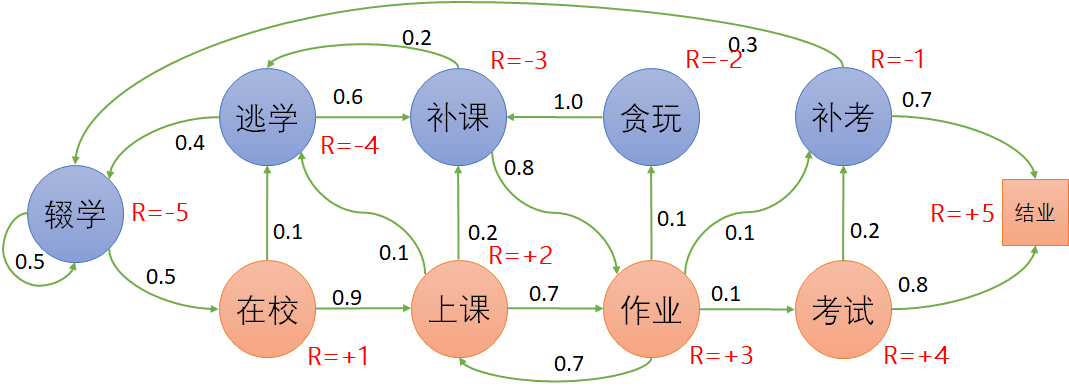
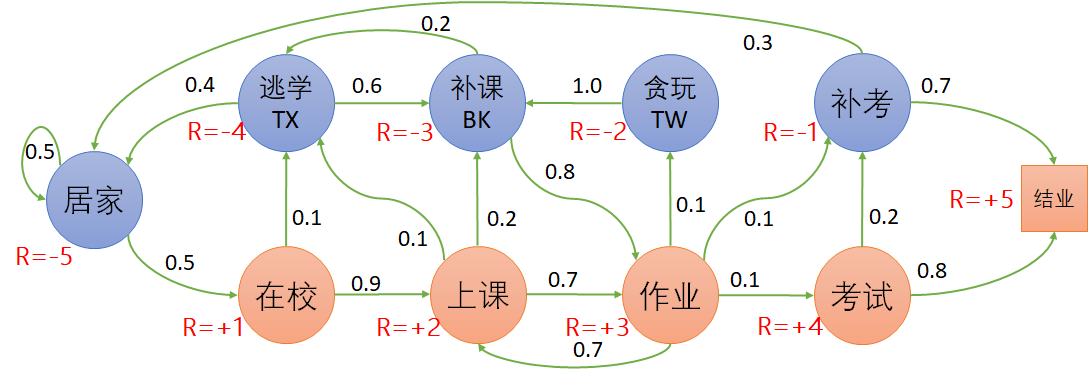
update

diff --git a/基础教程/A7-强化学习/50-学生学习问题 - 从普通过程到奖励过程/3-马尔可夫奖励过程.md b/基础教程/A7-强化学习/50-学生学习问题 - 从普通过程到奖励过程/3-马尔可夫奖励过程.md
@@ -3,19 +3,21 @@
 
 ### 5.3.1 马尔可夫奖励过程（Markov Reward Process）
 
-一个完整的奖励过程如图 3 所示。就是在状态转移图中，给每个状态都定义一个奖励值，当到达这个状态时，强化学习过程就会获得相应的奖励值，使得整个过程向着获得最大收益的方向优化和运行。
+有了回报 G 的定义，自然就会把所有的历史状态和对应的奖励串联起来，形成一个过程，叫做马尔可夫奖励过程 MRP（Markov Reward Process）。
+
+一个完整的奖励过程如图 5.3.1 所示。就是在状态转移图中，给每个状态都定义一个奖励值，当到达这个状态时，强化学习过程就会获得相应的奖励值，使得整个过程向着获得最大收益的方向优化和运行。
 
 <center>
-<img src="./img/Reward-2.png">
+<img src="./img/MRP.png">
 
-图 3 马尔科夫奖励过程
+图 5.3.1 马尔科夫奖励过程
 </center>
 
-很明显，这是用**面向结果**的方式来定义奖励。如果是**面向过程**的话，图 3 的 $S_1$ 状态应该没有奖励值，因为看上去它是**起始**状态，没有任何**过程**可以定义它的奖励。
+很明显，这是用**面向结果**的方式来定义奖励。
 
-在图 3 中：
-- 到达$S_1$状态时，会得到$R_2$的奖励；
-- 到达$S_2$状态时，会得到$R_3$的奖励；
+在图 5.3.1 中：
+- 到达$S_1$状态时，会得到$R_1$的奖励；
+- 到达$S_2$状态时，会得到$R_2$的奖励；
 ......
 - 到达$S_t$状态时，会得到$R_{t+1}$的奖励；
 ......
@@ -23,57 +25,86 @@
 
 这些状态的下标值，只表示前后发生的顺序，即**时刻**，而与状态的序号无关。比如一个状态集中有 4 个状态 $[s_a,s_b,s_c,s_T]$，马尔可夫链的顺序有可能是 $s_a,s_b,s_a,s_c,s_T$，那么有：$S_1=s_a,\ S_2=s_b,\ S_3=s_a,\ S_4=s_c,\ S_5=s_T$。
 
-*注：在本书中使用大写的 $S$ 表示某个时刻的状态，如 $S_1,S_t$，分别表示时刻 1 和时刻 t 的状态。用小写的 $s$ 表示具体问题的状态，如 $s_S,s_N$，表示安全驾驶问题中的 **出发** 状态和 **正常行驶** 状态。那么 $S_3=s_N$* 的含义就是在时刻 t=3 时处于状态 $s_N$。
+在本书中使用大写的 $S$ 表示某个时刻的状态，如 $S_1,S_t$，分别表示时刻 1 和时刻 t 的状态。用小写的 $s$ 表示具体问题的状态实例。
 
-*注：在本书中使用这种定义方式：整个序列的序号是 $S_1,R_2,S_2,R_3,\cdots,S_t,R_{t+1},\cdots$ 的过程，即 $R$ 的序号是 $S$ 的序号+1。而在有些资料中，用这种定义方式：$S_1,R_1,S_2,R_2,\cdots,S_t,R_{t},\cdots$，需要读者事先注意。*
+如在图 5.1.2 中，$s_{SK}$，表示学生学习问题中的“上课”状态，那么 $S_3=s_{SK}$ 的含义就是在时刻 t=3 时处于状态 $s_{SK}$。
 
+在本书中使用这种定义方式：整个序列的序号是 $S_0,R_1,S_1,R_2,\cdots,S_t,R_{t+1},\cdots$ 的过程，即 $R$ 的序号是 $S$ 的序号+1。而在有些资料中，用这种定义方式：$S_0,R_0,S_1,R_1,\cdots,S_t,R_{t},\cdots$，需要读者事先注意。
 
-用一个文字公式来表示 MRP（Markov Reward Process，马尔可夫奖励过程）：
+如果用一个文字公式来表示 MRP（Markov Reward Process，马尔可夫奖励过程）：
 
 $$
-马尔可夫奖励过程 = 马尔可夫链 + 奖励函数
+\begin{aligned}
+马尔可夫奖励过程 &= 马尔可夫链 + 奖励函数
+\\
+MRP &= Markov Chain + Reward
+\end{aligned}
 $$
 
-根据上面学习的知识，再结合上面的状态转移图 1，我们给每个状态定义一个奖励，如图 5 所示。
+所以，得到一个马尔科夫奖励过程需要条件和过程是：
+1. 有模型图（含状态转移）；
+2. 有奖励（目前可以是面向结果的奖励，即，到达某个状态后可以得到相应的奖励值）；
+3. 有采样，这样才可以串联起**状态**和**奖励**，以便获得完整的 MRP：$S_0,R_1,S_1,R_2,\cdots$ 过程；
+4. 得到奖励后，把它们相加，就可以得到回报 $G$，而 $G$ 是后面要学习的所有算法的基础。
+
+与马尔可夫过程的二元组 $\langle S,P \rangle$ 相比，马尔可夫奖励过程是一个元组的数据序列：$\langle S,P,R \rangle$，分别表示状态 $S$、转移概率 $P$、奖励 $R$。但是 $P$ 只体现在采样过程中，而不存在于采样结果中。
+
+下面我们结合模型、状态、终止状态、奖励、采样、回报的定义，来经历一下马尔科夫奖励过程。为了方便起见，把图 5.2.1 拷贝过来随时查阅。
 
 <center>
-<img src="./img/Drive-2.png" width="600">
+<img src="./img/Student-Reward.png">
 
-图 5 安全驾驶问题的马尔可夫奖励过程
+由图 5.2.1 学生学习问题中对状态的奖励
 </center>
 
-显然，这里使用了图 2 中的第一种方式（**面向结果**）来定义奖励，举例来说，无论状态“发生事故”是通过什么路径到达的（可以通过“拨打手机”到达，也可以通过“路口闯灯”到达），都可以得到 -12 的奖励（实际上是惩罚）。
+在图 5.1.2 中，可以根据不同的学生在一个学期中的经历，获得不同的到达终点路径。我们以“居家- 在校 - 上课 - 补课 - 作业 - 考试 - 补考 - 结业。”为例，解释完整过程：
 
-奖励函数（值）的设计一般是人工设定的，是通过分析目标问题的实际科学意义或者人文意义来决定的。比如，在图 5 中，通过交通规则的学习，给出制定奖励的过程如下：
+0. $S_0=$ “居家（学龄前）”。虽然在图 5.2.1 中的“居家”状态旁边标有 $R=-5$ 的奖励值，但是根据定义，作为 $S_0$ 状态，它是没有奖励值的，只有从别的状态转移到“居家”状态时，$R=-5$ 才会生效。
+1. $S_1=$ “在校”。此时可以得到 $R_1=+1$ 的奖励，即 $R_1=+1$，但是这个 $R_1$ 在马尔可夫过程中要写在 $S_0,S_1$ 之间，而不是 $S_1$ 之后。
+2. $S_2=$ “上课”。此时可以得到 $R_2=+2$ 的奖励。
+3. $S_3=$ “补课”。此时可以得到 $R_3=-3$ 的奖励。
+4. $S_4=$ “作业”。此时可以得到 $R_4=+3$ 的奖励。
+5. $S_5=$ “考试”。此时可以得到 $R_5=+4$ 的奖励。
+6. $S_6=$ “补考”。此时可以得到 $R_6=-1$ 的奖励。
+7. $S_T=$ “结业”。一般我们把最后一个状态写做 $S_T$，此时可以得到 $R_T=+5$ 的奖励。
 
-1. 按交规，超速行驶扣 3 分，开车打电话扣 3 分，闯红灯扣 6 分。
-2. 发生事故扣 1 分。有的读者会有疑问：为什么出了事故只扣 1 分？因为在交规中，出了事故后，不会因为事故本身（比如有无人员伤亡，车俩的损失程度等）而扣分，而是分析出事故的原因，对原因扣分。所以，这里只是象征性地扣 1 分。至于后期要做经济赔偿等等，是属于附带的责任，而不是奖励或惩罚。
-3. 礼让行人在交规上不加分，但是在强化学习系统中可以加 1 分，以鼓励自动驾驶的智能体强化此状态，保证安全。
-4. 正常行驶是一个常见状态，得 0 分；
-5. 闹市减速、小区内减速，和礼让行人一样，都给 1 分奖励。
-6. 安全抵达给 5 分奖励。之所以给的奖励值很高，是要强化安全驾驶行为/状态，让智能体更倾向于安全驾驶的习惯。
-7. 出发和结束都是 0 分。
+所以，马尔科夫奖励过程为：
+$$
+MRP_1 = \langle 居家,+1,在校,+2,上课,-3,补课,+3,作业,+4,考试,-1,补考,+5,结业 \rangle
+$$
 
-根据状态转移可以得到一些完整的分幕采样，从而可以计算出每个采样的回报值，列在表 1 中。
+再举几个有可能的过程是：
 
-表 1 分幕采样和回报计算
+$$
+\begin{aligned}
+MRP_2 &= \langle 居家,+1,在校,+2,上课,+3,作业,+4,考试,+5,结业 \rangle
+\\
+MRP_3 &= \langle 居家,+1,在校,-4,逃学,-3,补课,-4,逃学,-3,补课,+3,作业+4,考试,-1,补考,+5,结业 \rangle
+\\
+MRP_4 &= \langle 居家,+1,在校,+2,上课,+3,作业,-4,贪玩,-3,补课,+3,作业,+4,考试,+5,结业\rangle
+\end{aligned}
+$$
 
-||分幕采样序列|回报值计算|
-|-|-|-|
-|1|S - N - L - G - E|$G_{S}=0+0+1+5+0=6$|
-|2|S - N - P - N - L - G - E|$G_{S}=0+0+1+0+1+5+0=7$|
-|3|S - N - R - C - E|$G_{S}=0+0-6-1+0=-7$|
-|4|S - X - R - N - R - C - E|$G_{S}=0-3-6+0-6-1+0=-16$|
+得到完整的采样序列后，就可以计算回报值，列在表 5.3.1 中。
 
-读者可能会产生怀疑：为什么表 1 中都是同样计算 $G_{S}$ 的回报值，但是有不同的结果？这是因为采样不同，路径不同，造成的回报值不同，这种情况是正常的。
+表 5.3.1 不同的 MRP 的回报值计算
 
-与马尔可夫过程的二元组 $<S,P>$ 相比，马尔可夫奖励过程是一个元组的数据序列：$<S,P,R>$，分别表示状态 $S$、转移概率 $P$、奖励 $R$。
+|MRP|回报值计算|
+|-|-|
+|$MPR_1$|$G_0=1+2-3+3+4-1+5=11$|
+|$MPR_2$|$G_0=1+2+3+4+5=15$|
+|$MPR_3$|$G_0=1-4-3-4-3+3+4-1+5=-2$|
+|$MPR_4$|$G_0=1+2+3-4-3+3+4+5=11$|
+
+读者可能会有疑问：为什么表 5.3.1 中都是以“在家”状态为起点 $S_0$，计算 $G_0$ 的回报值，但是有不同的结果？这是因为采样不同，路径不同，造成的回报值不同，这种情况是正常的。
+
+
 
 
 
 ### 5.3.2 折扣因子 $\gamma$
 
-如果把**回报**定义为**奖励**的简单相加的话，整个学习框架就会失去一些“灵动”，没有可以调节收益信号大小的“开关”，甚至带来如图 7 所示的灾难。
+如果把**回报**定义为**奖励**的简单相加的话，整个学习框架就会失去一些“灵动”，没有可以调节收益信号大小的“开关”，甚至带来如图 5.2.6 所示的无限循环怪圈。
 
 如何避免这个问题呢？
 
@@ -89,45 +120,39 @@ G_t &= R_{t+1}+\gamma R_{t+2}+\gamma^2 R_{t+3}+ \cdots +\gamma^{T-t-1} R_{T}
 \\
 &=R_{t+1}+ \gamma G_{t+1}, \qquad (0 \le \gamma \le 1)
 \end{aligned}
-\tag{2}
+\tag{5.3.1}
 $$
 
-式 2 有一个有趣的现象，可以递归地用下一个时刻的回报来定义当前时刻的回报，这一点在我们后面的算法研究上非常有帮助。
+式（5.3.1）有一个有趣的现象，可以递归地用下一个时刻的回报来定义当前时刻的回报，这一点在我们后面的算法研究上非常有帮助。
 
 引入折扣因子的原因如下：
 
 - 有些马尔可夫过程是带环的，需要避免这种无穷的奖励。当过程很长时，$\gamma^t$ 的值越来越小，那么后面的奖励乘以 $\gamma^t$ 的值就可以忽略不计了。
 - 因为模型不完备的原因，对未来的评估不一定是准确的。因为这种不确定性，所以对未来的预估增加一个折扣。
-- 对于某些行业问题，如金融领域，希望尽可能快地得到奖励，而不是在未来得到奖励。可以想象为通货膨胀的例子，现在是10块钱和十年后的10块钱，是会相差好几倍的。
-- 人们总是希望得到即时的奖励，比如一个孩子在成长过程中，对于任何行为随时给与奖励或者惩罚，可以给出强烈的学习信号，智能体也是如此。
+- 对于某些行业问题，如金融领域，希望尽可能快地得到奖励，而不是在未来得到奖励。可以想象为通货膨胀的例子，现在是 10 块钱和十年后的 10 块钱，是会相差好几倍的，所以把十年后的 10 块钱折扣为当前的 2 块钱比较合适。
+- 人们总是希望得到即时的奖励，比如一个孩子在成长过程中，对于任何行为随时给与奖励或者惩罚，可以给出强烈的学习信号。智能体也是如此，比如在下围棋时，如果每走一步都有奖励的话，训练会变得容易很多。
 - 当关注即时奖励时，可以设置系数 $\gamma=0$。
 - 当想要未来获得的奖励跟当前获得的奖励是一样的，可以设为 $\gamma=1$。
 
 折扣作为一种超参存在于强化学习系统中，不同的折扣值会带来智能体的不同的学习效果。
 
 
-表 2 带折扣的分幕采样和回报计算
+表 5.3.2 带折扣的回报计算
 
-||分幕采样序列|回报值计算（$\gamma=0.9$）|
-|-|-|-|
-|1|Start - N - L - G - End|$G_{S}=0+0.9*0+0.9^2*1+0.9^3*10+0.9^4*0=8.1$|
-|2|Start - N - P - N - L - G - End|$G_{S}=0+0.9*0+0.9^2*1+0.9^3*0+0.9^4*1+0.9^5*10+0.9^6*0=7.371$|
-|3|Start - N - R - C - End|$G_{S}=0+0.9*0-0.9^2*6-0.9^3*12+0.9^4*0=-13.608$|
-|4|Start - X - R - N - R - C - End|$G_{S}=0-0.9*3-0.9^2*6+0.9^3*0-0.9^4*6-0.9^5*12+0.9^6*0=-18.58$|
+|MRP|回报值计算，$\gamma=0.5$（精确到两位小数）|
+|-|-|
+|$MPR_1$|$\footnotesize{G_0=1+0.5*2-0.5^2*3+0.5^3*3+0.5^4*4-0.5^5*1+0.5^6*5=1.92}$|
+|$MPR_2$|$\footnotesize{G_0=1+0.5*2+0.5^2*3+0.5^3*4+0.5^4*5=3.56}$|
+|$MPR_3$|$\footnotesize{G_0=1-0.5*4-0.5^2*3-0.5^3*4-0.5^4*3+0.5^5*3+0.5^6*4-0.5^7*1+0.5^8*5=-2.27}$|
+|$MPR_4$|$\footnotesize{G_0=1+0.5*2+0.5^2*3-0.5^3*4-0.5^4*3+0.5^5*3+0.5^6*4+0.5^7*5=2.26}$|
 
+如果折扣为 0，则回报值 $G$ 就等于当前状态的奖励值 $R$，即 $G_t = R_{t+1}$，那么表 5.3.2 中的值都为 $G_0=1$。
 
-如果折扣为 0，则回报值 $G$ 就等于当前状态的奖励值 $R$，即 $G_t = R_{t+1}$。
-
-在式 2 中，如果 $T$ 很大的话，似乎 $G$ 就会变得很大，从而无法计算。但由于限定 $\gamma \le 1$，所以回报值还是不会大得离谱的。特别低，如果奖励值为常数 +1，则回报是：
+在式 5.2.1 中，如果 $T$ 很大的话，$G$ 就会变得很大，从而无法计算。但由于限定 $\gamma \le 1$，所以回报值还是不会大得离谱的。特别地，如果奖励值为常数 +1，则回报是：
 
 $$
-G_t = \sum_k^{\infty} \gamma^k = \frac{1}{1-\gamma} \tag{3}
+G_t = \sum_{k=0}^{\infty} \gamma^k = \frac{1}{1-\gamma} \tag{5.3.2}
 $$
 
-所以，马尔可夫奖励过程的元组的数据序列中增加了折扣因子：$<S,P,R,\gamma>$。
+所以，马尔可夫奖励过程的元组的数据序列中增加了折扣因子：$\langle S,P,R,\gamma\rangle$。但是 $P,\gamma$ 只体现在采样过程中，而不存在于采样结果中。
 
-### 参考资料
-
-- David Silver RL course
-- Sutton 强化学习
-- 奖励函数设计 https://cloud.tencent.com/developer/article/1693899

diff --git a/基础教程/A7-强化学习/50-学生学习问题 - 从普通过程到奖励过程/1-学生学习问题.md b/基础教程/A7-强化学习/50-学生学习问题 - 从普通过程到奖励过程/1-学生学习问题.md
@@ -11,7 +11,7 @@
 
 在本章中的问题是这样的：
 
-相信读者都经历过幸（痛）福（苦）的学生时代，有些优秀的同学，会顺利地度过上学、上课、作业、考试、结业等过程，而一些不爱学习的同学，就会经历逃学、补课、贪玩、补考，甚至辍学的过程。
+相信读者都经历过幸（痛）福（苦）的学生时代，有些优秀的同学，会顺利地度过上学、上课、作业、考试、结业等过程，而一些不爱学习的同学，就会经历逃学、补课、贪玩、补考，甚至居家的过程。
 
 优秀的同学，总会得到老师家长的夸奖，而不爱学习的同学，经常会受到批评甚至责骂，所以有人觉得幸福，有人觉得痛苦。
 
@@ -31,18 +31,18 @@
 
 表 5.1.1 学生学习问题模型解释
 
-|状态|描述|下游状态转移概率|
-|-|-|-|
-|辍学|辍学、休学、退学、学龄前<br>等等不在校受教育的状态。| 0.5：概率会继续辍学；<br>0.5：去上学。|
-|在校|在学校接受教育。|0.9：去上课；<br>0.1：逃学。|
-|逃学|本来该在学校但是不在|0.6：逃学回来后需要补课；<br>0.4：持续逃学，变成了辍学。|
-|上课|是一个要多次经历的状态。|0.7：上完课后去完成课后作业；<br>0.2：没听懂找老师或者同学补课；<br>0.1：上课过程中逃学。|
-|补课|上课没听懂，找同学或者老师补课。|0.8：补课结束后要去完成作业；<br>0.2：补课不认真，接着逃学。|
-|作业|完成课后作业。|0.7：回到第二天的上课状态；<br>0.1：贪污，不写作业；<br>0.1：到了期中期末考试阶段；<br>0.1：错过考试，直接补考。|
-|贪玩|放学后贪玩，不写作业。|1.0：需要补课。|
-|考试|期中或者期末考试。|0.8：及格，结业；<br>0.2：不及格，需要补考。|
-|补考|考试不及格需要补考。|0.7：可以通过；<br>0.3：补考不及格，退学。|
-|结业|结束本学期的学习。|终止状态，不再转移。|
+|状态|代码|描述|下游状态转移概率|
+|-|-|-|-|
+|居家|CX|辍学、休学、退学、学龄前<br>等等不在校受教育的状态。| 0.5：概率会继续居家；<br>0.5：去上学。|
+|在校|ZX|在学校接受教育。|0.9：去上课；<br>0.1：逃学。|
+|逃学|TX|本来该在学校但是不在|0.6：逃学回来后需要补课；<br>0.4：持续逃学，变成了居家。|
+|上课|SK|是一个要多次经历的状态。|0.7：上完课后去完成课后作业；<br>0.2：没听懂找老师或者同学补课；<br>0.1：上课过程中逃学。|
+|补课|BK|上课没听懂，找同学或者老师补课。|0.8：补课结束后要去完成作业；<br>0.2：补课不认真，接着逃学。|
+|作业|ZY|完成课后作业。|0.7：回到第二天的上课状态；<br>0.1：贪污，不写作业；<br>0.1：到了期中期末考试阶段；<br>0.1：错过考试，直接补考。|
+|贪玩|TW|放学后贪玩，不写作业。|1.0：需要补课。|
+|考试|KS|期中或者期末考试。|0.8：及格，结业；<br>0.2：不及格，需要补考。|
+|补考|BS|考试不及格需要补考。|0.7：可以通过；<br>0.3：补考不及格，退学。|
+|结业|End|结束本学期的学习。|终止状态，不再转移。|
 
 
 ### 5.1.3 从模型形成过程
@@ -76,19 +76,19 @@
 在图 5.1.2 中，可以根据不同的学生在一个学期中的经历，获得不同的到达终点路径，比如：
 - 学生甲
 
-  辍学（学龄前）- 在校 - 上课 - 作业 - 考试 - 结业。
+  居家 - 在校 - 上课 - 作业 - 考试 - 结业。
 
 - 学生乙
 
-  辍学（学龄前）- 在校 - 上课 - 补课 - 作业 - 考试 - 结业。
+  居家- 在校 - 上课 - 补课 - 作业 - 考试 - 结业。
 
 - 学生丙
 
-  辍学 - 在校 - 上课 - 作业 - 贪玩 - 补课 - 作业 - 考试 - 结业。
+  居家 - 在校 - 上课 - 作业 - 贪玩 - 补课 - 作业 - 考试 - 结业。
 
 - 学生丁
 
-  辍学 - 在校 - 逃学 - 补课 - 逃学 - 补课 - 作业 - 考试 - 补考 - 结业。
+  居家 - 在校 - 逃学 - 补课 - 逃学 - 补课 - 作业 - 考试 - 补考 - 结业。
 
   ......
 
@@ -96,7 +96,7 @@
 
 根据转移概率，经过采样后到达终点，得到一幕状态序列。没有到达终点的状态序列不叫作完整的状态序列，也不叫做一幕，但是这些序列片段仍然有研究价值。
 
-另外，读者可能注意到在上述采样的例子中，都是从“辍学”开始的，似乎有一个隐含的开始状态。在某些问题中，我们指定一些状态为开始状态，原因是：
+另外，读者可能注意到在上述采样的例子中，都是从“居家”开始的，似乎有一个隐含的开始状态。在某些问题中，我们指定一些状态为开始状态，原因是：
 
 - 一是为了符合实际问题的逻辑需要，比如本例中，学生时代一般都是从不在校的状态开始的（学龄前）。
 - 二是为了不过分简化问题的难度。比如一个迷宫，如果不指定开始状态，而是从快到出口的一个位置作为起始位置，将会大大降低问题的难度。

diff --git a/基础教程/A7-强化学习/50-学生学习问题 - 从普通过程到奖励过程/2-奖励和回报.md b/基础教程/A7-强化学习/50-学生学习问题 - 从普通过程到奖励过程/2-奖励和回报.md
@@ -9,7 +9,7 @@
 
 更具体地，我们看一看一些负面的影响：
 
-- 辍学，家长不给你好脸子看，是一种精神惩罚；
+- 居家，家长不给你好脸子看，是一种精神惩罚；
 - 逃学，可能会在社会上学坏；
 - 补课，耽误别人和自己的时间；
 - 贪玩，该做的作业没有做；
@@ -93,7 +93,7 @@
 
 ### 5.2.2 回报（Return/Gain）
 
-股票市场起起伏伏，今天挣的钱，明天就可能赔回去了。所以“有一年五倍易，五年一倍难”的说法，意为一年赚五倍的大有人在，但是第二年就可能赔光了，而五年下来，稳稳地赚一倍的，却是很难做到。所以，我们更看中的是长期积累的收益。
+股票市场起起伏伏，今天挣的钱，明天就可能赔回去了。所以有“一年五倍易，五年一倍难”的说法，意为一年赚五倍的大有人在，但是第二年就可能赔光了，而五年下来，稳稳地赚一倍的，却是很难做到。所以，我们更看中的是长期积累的收益。
 
 <center>
 <img src="./img/LongTerm-Reward.png">
@@ -118,7 +118,7 @@ $$
 
 第一次见到式（5.2.1）的读者会感觉奇怪，为什么是 $R_{t+1}$ 而不是 $R_t$？
 
-这只是一种定义方式，强调了奖励是在到达某状态时获得的，而不是离开时获得的。
+这只是一种定义方式，强调了奖励是在到达某新状态时获得的，而不是离开时获得的。
 
 <center>
 <img src="./img/Gain.png">

diff --git a/基础教程/A7-强化学习/40-醉汉回家问题 - 从单纯转移到过程形成/3-马尔可夫过程.md b/基础教程/A7-强化学习/40-醉汉回家问题 - 从单纯转移到过程形成/3-马尔可夫过程.md
@@ -51,7 +51,7 @@ $酒 \to A \to B \to B \to A \to B \to C \to D \to D \to C \cdots$
 
 ### 4.3.2 马尔科夫链（Markov Chain）
 
- 马尔科夫链是一种最简单的马尔可夫过程，专指离散数据集的马尔可夫过程。经典的马尔可夫链主要是研究当前状态和未来状态之间的转移概率，并可以计算出多次试验之后的每个状态的概率分布，从而将看起来毫无规律的一些随机现象变成了整体有序的状态变化。
+ 马尔科夫链（MC, Markov Chain）是一种最简单的马尔可夫过程，专指离散数据集的马尔可夫过程。经典的马尔可夫链主要是研究当前状态和未来状态之间的转移概率，并可以计算出多次试验之后的每个状态的概率分布，从而将看起来毫无规律的一些随机现象变成了整体有序的状态变化。
 
 上述的醉汉回家以及租车还车的过程，都是马尔可夫链的具体例子。
 

diff --git a/基础教程/A7-强化学习/50-学生学习问题 - 从普通过程到奖励过程/0-第5章.md b/基础教程/A7-强化学习/50-学生学习问题 - 从普通过程到奖励过程/0-第5章.md
@@ -10,3 +10,7 @@
 ### 参考资料
 
 https://blog.csdn.net/gsww404/article/details/80803295
+
+- David Silver RL course
+- Sutton 强化学习
+- 奖励函数设计 https://cloud.tencent.com/developer/article/1693899
